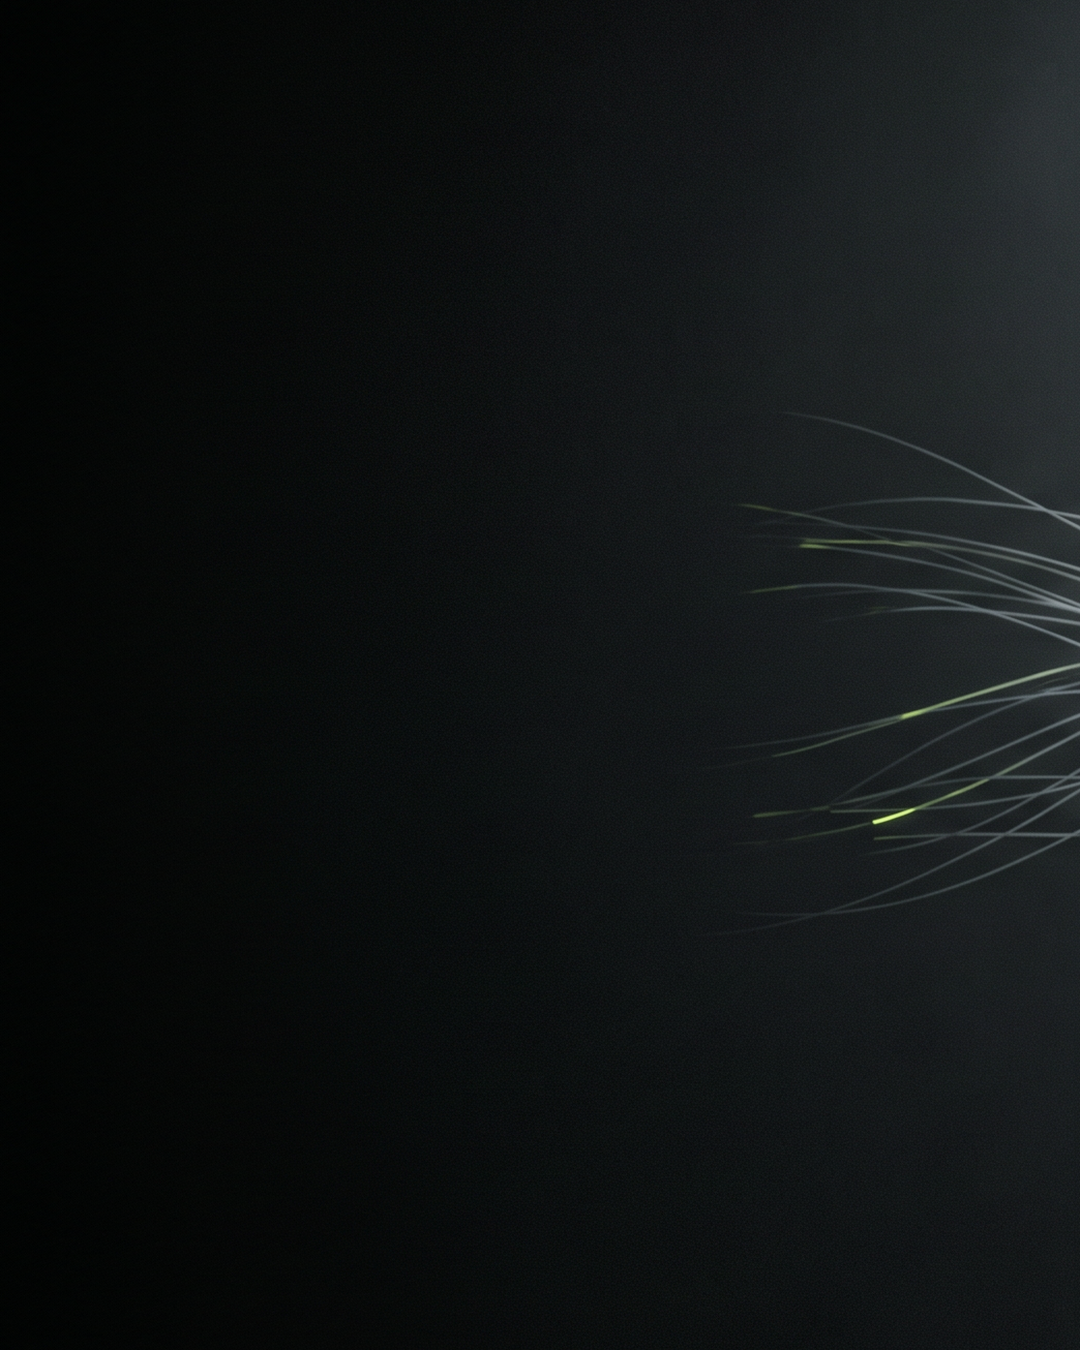
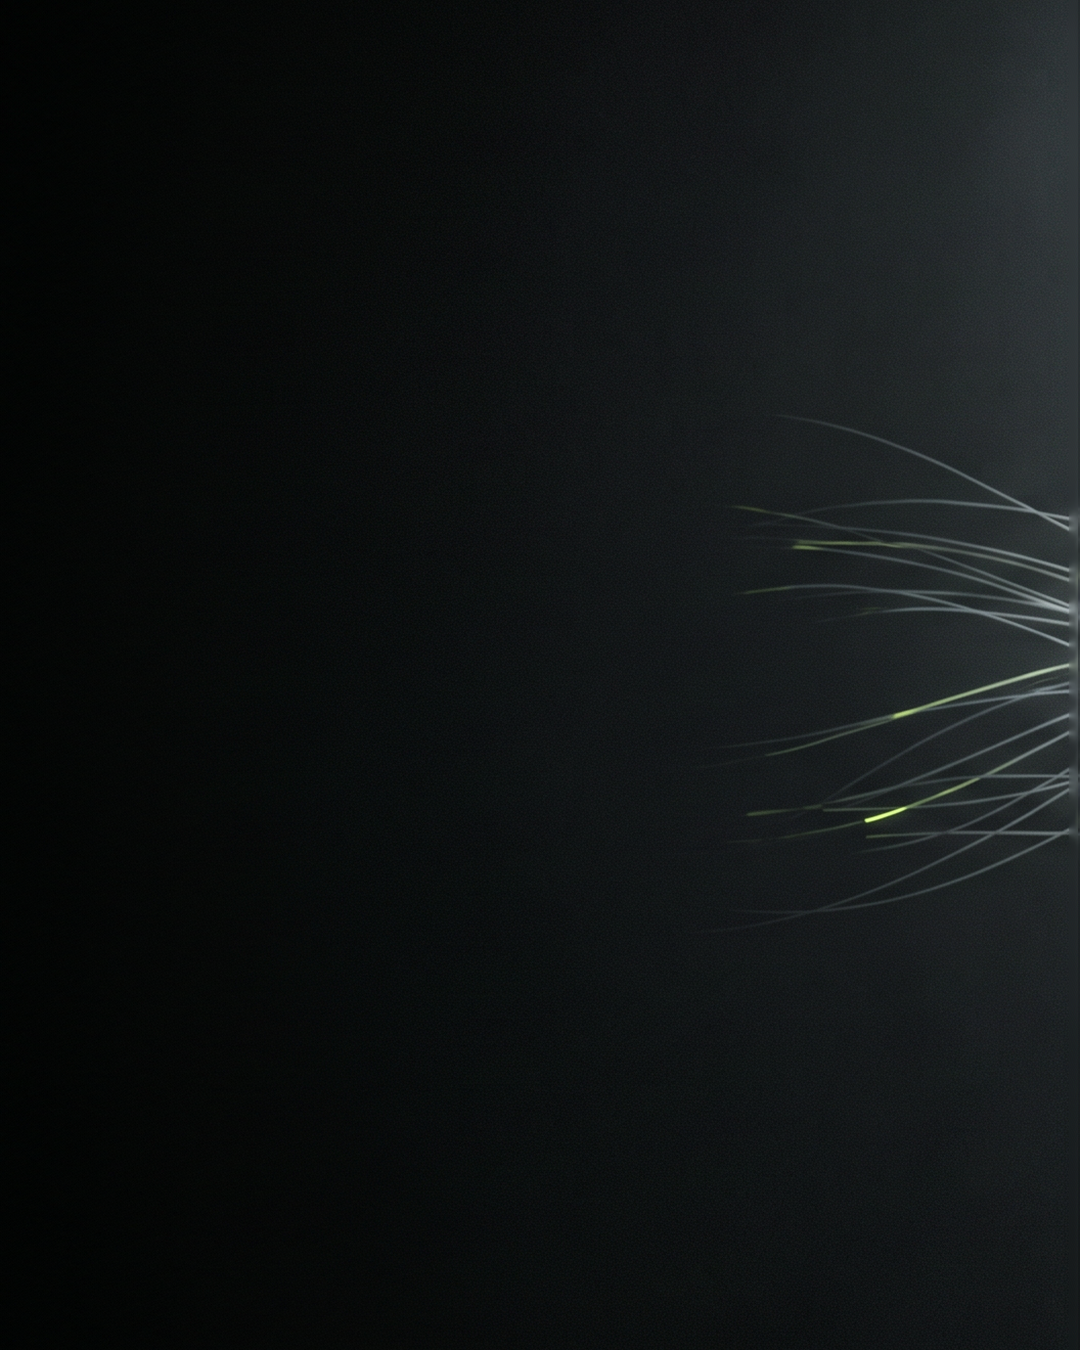
Rows read as one poster: seamless seams, shared baseline, prompt v3
Claude-Session: https://claude.ai/code/session_01LKQNuEnmvMjGabLVVX6Xfj

Changed region(s): [[0.7333, 0.3422, 1.0, 0.6844], [0.7944, 0.3111, 0.8556, 0.3422]]

diff --git a/tools/carousel/rows/panel.html b/tools/carousel/rows/panel.html
@@ -7,16 +7,20 @@ body{margin:0;width:1080px;height:1350px;position:relative;overflow:hidden;color
 const S=JSON.parse(decodeURIComponent(location.hash.slice(1)));const X=document.getElementById('x');
 const E=s=>String(s).replace(/[&<>]/g,c=>({'&':'&amp;','<':'&lt;','>':'&gt;'}[c]));
 const lines=(a,accent)=>a.map((t,i)=>i==a.length-1&&accent?`<span class=lime>${E(t)}</span>`:E(t)).join('<br>');
-const hd=k=>`<div class=l style="left:90px;top:84px">AUTOPILOT.OI</div><div class="m lime" style="right:90px;top:84px">${E(k)}</div>`;
-if(S.slot=='L')X.innerHTML=`<div class=bg style="background-image:url(${S.bg})"></div>${hd(S.kicker||'LEARN')}
- <div class=fit id=f data-w="${S.maxw||560}" data-s="160" style="left:84px;top:${S.top||330}px">${lines(S.title,true)}</div>
- <div class=m style="left:90px;top:1150px;color:#9a9a92">${E(S.foot||'')}</div><div class=m style="left:90px;top:1190px">SWIPE →</div>`;
+// One row reads as one poster: a single label line across the top, one shared type baseline across the bottom.
+const BASE=1190;
+const bottomFit=(html,maxw,size)=>`<div class=fit id=f data-w="${maxw}" data-s="${size}" data-bottom="${BASE}" style="left:90px;top:0">${html}</div>`;
+if(S.slot=='L')X.innerHTML=`<div class=bg style="background-image:url(${S.bg})"></div>
+ <div class=l style="left:90px;top:84px">AUTOPILOT.OI</div>
+ ${bottomFit(lines(S.title,true),S.maxw||620,104)}
+ <div class=m style="left:90px;top:1236px;color:#9a9a92">${E(S.foot||'')} &nbsp;→</div>`;
 if(S.slot=='M')X.innerHTML=`<div class=bg style="background-image:url(${S.bg})"></div>
- <div class="m lime" style="left:0;right:0;text-align:center;top:1110px">CHAPTER ${E(S.n)}</div>
- <div class=fit id=f data-w="900" data-s="84" style="left:540px;transform:translateX(-50%);text-align:center;top:1150px">${E(S.name)}</div>`;
-if(S.slot=='R')X.innerHTML=`<div class=bg style="background-image:url(${S.bg})"></div>${hd(S.kicker||'THE STORE')}
- <div class=fit id=f data-w="900" data-s="96" style="left:90px;top:${S.top||1010}px">${lines(S.title,true)}</div>
- <div class=m style="left:90px;top:1220px;color:#9a9a92">${E(S.foot||'LINK IN BIO →')}</div>`;
-document.fonts.ready.then(()=>{const f=document.getElementById('f');let s=+f.dataset.s;f.style.fontSize=s+'px';
- while(f.scrollWidth>+f.dataset.w&&s>40){s-=2;f.style.fontSize=s+'px'}window.FIT=s;window.READY=1});
+ <div class="m" style="left:0;right:0;text-align:center;top:1236px"><span class=lime>CHAPTER ${E(S.n)}</span> &nbsp; ${E(S.name).toUpperCase()}</div>`;
+if(S.slot=='R')X.innerHTML=`<div class=bg style="background-image:url(${S.bg})"></div>
+ <div class="m lime" style="right:90px;top:84px">${E(S.kicker||'THE STORE')}</div>
+ ${bottomFit(lines(S.title,true),900,104)}
+ <div class=m style="left:90px;top:1236px;color:#9a9a92">${E(S.foot||'LINK IN BIO →')}</div>`;
+document.fonts.ready.then(()=>{const f=document.getElementById('f');if(!f){window.READY=1;return}let s=+f.dataset.s;f.style.fontSize=s+'px';
+ while(f.scrollWidth>+f.dataset.w&&s>40){s-=2;f.style.fontSize=s+'px'}
+ if(f.dataset.bottom)f.style.top=(+f.dataset.bottom-f.offsetHeight)+'px';window.FIT=s;window.READY=1});
 </script></body></html>

diff --git a/tools/carousel/rows/row.py b/tools/carousel/rows/row.py
@@ -16,30 +16,58 @@ URL = 'http://localhost:8790/'
 W, H = 1080, 1350
 
 
-def split(img):
-    """Cut the render into three 4:5 panels. Drops any dark divider lines the model drew."""
-    a = np.asarray(img).astype(int)
-    col = a.mean(axis=(0, 2))
+def seamless(img):
+    """Make the render read as ONE uncut image (Seb Nov 4: "the 3 posts feel separate").
+    1. Paint out any divider lines the model drew, so lines keep running across the cut.
+    2. Even out the lighting jump between the model's panels with a soft gain ramp at each seam."""
+    import cv2
+    a = np.asarray(img).astype(np.uint8)
+    col = a.astype(int).mean(axis=(0, 2))
     w = img.width
     dark = [x for x in range(int(w * .2), int(w * .8)) if col[x] < 14]
-    cuts = []
+    seams = []
     for x in dark:
-        if not cuts or x - cuts[-1][1] > 3:
-            cuts.append([x, x])
+        if not seams or x - seams[-1][1] > 3:
+            seams.append([x, x])
         else:
-            cuts[-1][1] = x
-    if len(cuts) == 2:
-        spans = [(0, cuts[0][0]), (cuts[0][1] + 1, cuts[1][0]), (cuts[1][1] + 1, w)]
-    else:
-        t = w // 3
-        spans = [(0, t), (t, 2 * t), (2 * t, w)]
-    pw = min(b - a_ for a_, b in spans)
+            seams[-1][1] = x
+    if seams:
+        m = np.zeros(a.shape[:2], np.uint8)
+        for x0, x1 in seams:
+            m[:, max(0, x0 - 3):x1 + 4] = 255
+        a = cv2.inpaint(a, m, 9, cv2.INPAINT_TELEA)
+    f = a.astype(float)
+    centers = [(x0 + x1) // 2 for x0, x1 in seams] or [w // 3, 2 * w // 3]
+    for c in centers:
+        lft = f[:, max(0, c - 70):c - 12].mean(axis=1, keepdims=True)
+        rgt = f[:, c + 12:c + 70].mean(axis=1, keepdims=True)
+        lft = cv2.GaussianBlur(lft, (1, 0), 40).reshape(-1, 1, 3) if False else lft
+        target = (lft + rgt) / 2
+        gl = np.clip(target / np.maximum(lft, 1), .7, 1.4)
+        gr = np.clip(target / np.maximum(rgt, 1), .7, 1.4)
+        gl = cv2.GaussianBlur(gl.astype(np.float32), (1, 0), sigmaX=0, sigmaY=60).reshape(-1, 1, 3) if gl.ndim == 3 else gl
+        R = 260
+        for i in range(R):
+            t = 1 - i / R
+            xl, xr = c - 1 - i, c + i
+            if xl >= 0:
+                f[:, xl] *= 1 + (gl[:, 0] - 1) * t
+            if xr < w:
+                f[:, xr] *= 1 + (gr[:, 0] - 1) * t
+    return Image.fromarray(np.clip(f, 0, 255).astype(np.uint8))
+
+
+def split(img):
+    """Seamless render, then three exact thirds, each cropped to 4:5."""
+    img = seamless(img)
+    w = img.width
+    pw = w // 3
     ph = min(img.height, int(pw * 1.25))
     pw = int(ph / 1.25)
     y0 = (img.height - ph) // 2
     out = []
-    for a_, b in spans:
-        x0 = a_ + ((b - a_) - pw) // 2
+    for i in range(3):
+        x0 = i * (w // 3) + ((w // 3) - pw) // 2
         out.append(img.crop((x0, y0, x0 + pw, y0 + ph)).resize((W, H), Image.LANCZOS))
     return out
 
@@ -72,7 +100,17 @@ def warp(panel, screen_png, corners):
     return Image.composite(Image.new('RGB', panel.size, (255, 255, 255)), out, g.filter(ImageFilter.GaussianBlur(30)))
 
 
+def serve():
+    import urllib.request, time
+    try:
+        urllib.request.urlopen(URL, timeout=2); return
+    except Exception:
+        subprocess.Popen(['python3', '-m', 'http.server', '8790'], cwd=ROOT, stdout=subprocess.DEVNULL, stderr=subprocess.DEVNULL, start_new_session=True)
+        time.sleep(1.5)
+
+
 def main():
+    serve()
     spec = json.load(open(sys.argv[1]))
     rid = spec['id']
     out = os.path.join(ROOT, 'docs', 'media', 'rows', rid)

diff --git a/tools/carousel/rows/ROADMAP.md b/tools/carousel/rows/ROADMAP.md
@@ -65,26 +65,24 @@ STORE (right)
 - A week of posts. / By Monday.   (Content Week)
 - The whole office. / One kit.   (Office Autopilot)
 
-## Runway / Nano Banana prompt template (v2, Seb Nov 4: "needs to have a natural flow")
-v1 problems: the nerves stopped dead in the left panel, the model drew hard divider lines, cables pierced the subject like puppet strings, curves were stiff.
-v2 fixes: one seamless current of light that enters at the left edge and leaves at the right edge, a vertical spine of cables through the middle that continues into the rows above and below, nerves that grow out of the subject instead of stabbing into it.
-Swap CENTER and nothing else.
+## One row = one poster (Seb Nov 4: "the 3 posts feel separate")
+- row.py paints out any divider lines the model draws and evens the lighting at the cuts, so the nerves run straight across.
+- Type is one system across the row: AUTOPILOT.OI top left of L, THE STORE top right of R, nothing on top of M.
+  Both headlines sit on the same baseline, same size. One footer line across all three: L hint, M "CHAPTER nn  NAME", R "LINK IN BIO".
+
+## Runway / Nano Banana prompt template (v3)
+v1 (ch01) look is the keeper: smooth clean glowing strands, serene porcelain. v2 (roots, tentacles, a cable cross) was rejected Nov 4.
+v3 keeps the ch01 look and only asks for one seamless frame. Swap CENTER and nothing else.
 
 ```
-Generate 1 image with Nano Banana. Ultra wide aspect ratio 21:9. Use the attached image only as a style reference for material, lighting, haze and color. It will be cut into 3 vertical posts later, but render ONE seamless continuous image: no panels, no borders, no dividing lines, no frames.
+Generate 1 image with Nano Banana. Ultra wide aspect ratio 21:9. Match the attached reference image exactly in material, lighting, haze, color and the style of the glowing strands. Render ONE seamless continuous photograph: no panels, no borders, no dividing lines, no frames, even lighting and haze across the whole width.
 
-Restrained, elegant, cinematic 3D render, Octane realism, dark graphite void with soft haze and faint volumetric light from above, fine film grain.
+Restrained, elegant, cinematic 3D render, Octane realism, dark graphite void with soft haze and faint volumetric light from above, fine film grain, shallow depth of field.
 
-THE FLOW: one continuous current of delicate nerve fibers flows across the whole image like a slow river of light. It enters at the left edge at mid height as a thin loose stream, widens as it travels, curves gently in a soft S shape, passes through the subject, then narrows and leaves the right edge at mid height. The fibers are organic like real nerves and mycelium: soft curves, different thicknesses, a few fine branches, some fibers close to camera and out of focus, some far behind and hazy. They are white porcelain colored, and acid lime (#D4FF3A) light pulses travel along some of them. Nothing is straight, nothing is stiff.
+CENTER of the image: CENTER. White porcelain with fine panel seams, soft acid lime (#D4FF3A) light glowing from inside. It is suspended by a few thin glowing lime fiber optic strands coming down from the top of the frame.
 
-THE SPINE: a thin bundle of glowing lime fiber optic cables hangs from the top center of the image and continues below the subject out of the bottom center of the image, so the scene connects to whatever is above and below it.
+THE FLOW: smooth, clean strands like in the reference, some white, some glowing lime, flowing out of both sides of the subject in long gentle curves. On the left they drift out of the frame through the left edge at mid height. On the right they sweep across and wrap loosely around a floating matte black glass tablet (portrait, tilted slightly, edges glowing faint lime, screen dark and blank) at about 80 percent of the width, then continue out of the right edge. Strands are smooth and graceful, not roots, not tentacles, no branching, nothing straight or stiff.
 
-CENTER (middle third): CENTER. White porcelain with fine panel seams, soft lime light glowing from inside. The nerve fibers grow out of the subject naturally and become part of it. No cables stabbing into it, no puppet strings.
-
-RIGHT third: the current wraps loosely around a floating matte black glass tablet, portrait orientation, tilted slightly, edges glowing faint lime, screen dark and blank, centered in the right third.
-
-LEFT third: only the thin incoming stream at mid height and the soft haze. The upper half and lower half of the left third stay clean and dark.
-
-Lots of negative space. No text, no letters, no logos, no watermark, no people, no full bodies.
+Keep the left 30 percent mostly dark and empty except the strands at mid height. Lots of negative space. No text, no letters, no logos, no watermark, no people, no full bodies.
 ```
-Attach `ch01-render.png` as the style reference every time so the world never drifts.
+Attach `ch01-render.png` as the reference every time so the world never drifts.
